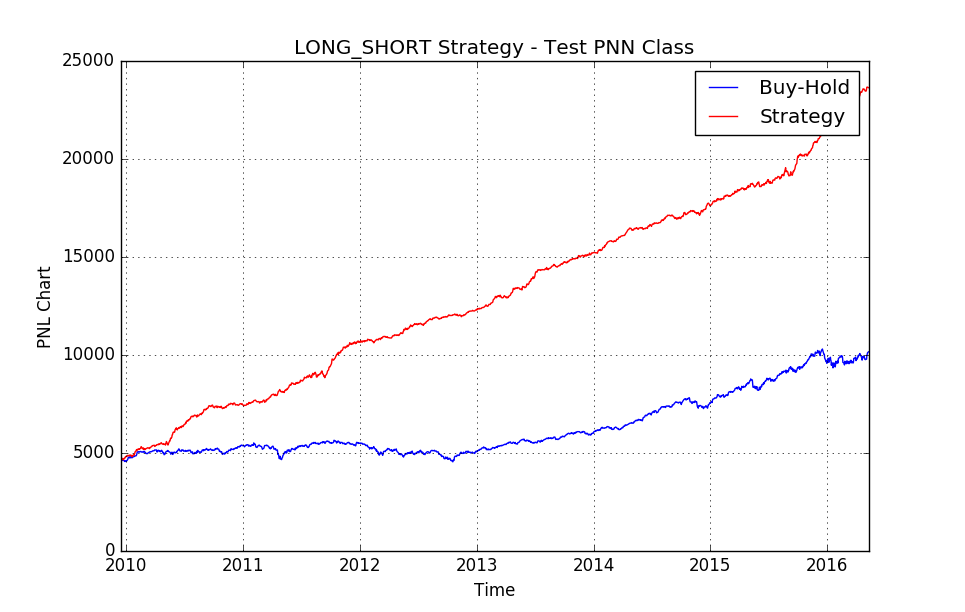
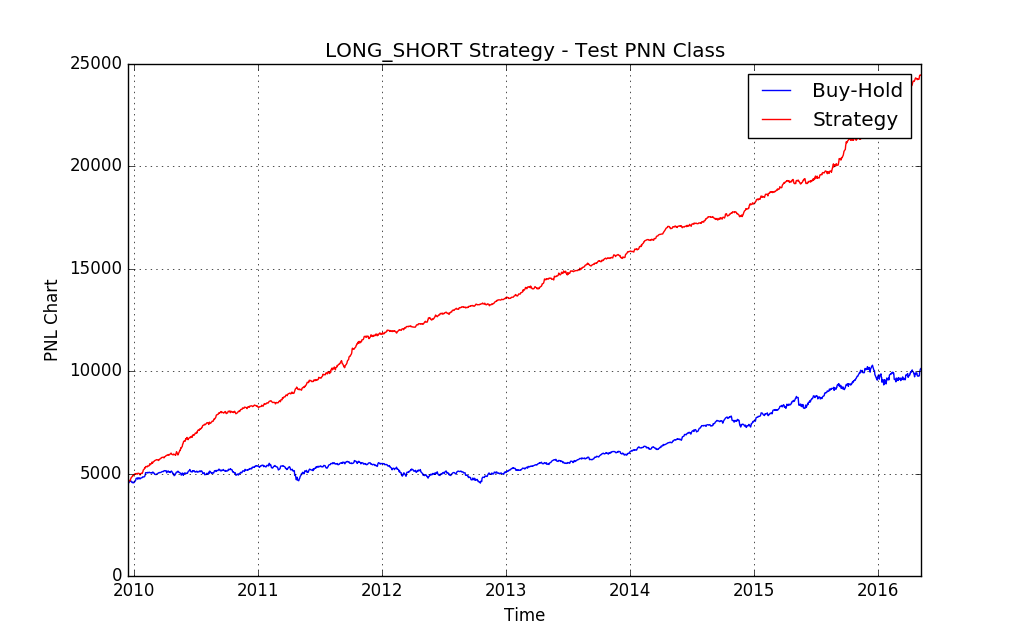
Updates for report v3
Updated GRNN and PNN training

diff --git a/src/main_level.py b/src/main_level.py
@@ -117,6 +117,20 @@ pricesInputs.append(['ASX200_ACCUMULATION_LAST','Indices','ASA51_PX_LAST',lagAsi
 useReturn = 0
 usePrice = 1
 predictorInputs = []
+# predictorInputs.append(['S&P500_DAILY_PX_LAST',useReturn])
+# predictorInputs.append(['STFINL_DAILY_PX_LAST',useReturn])
+# predictorInputs.append(['SHCOMP_DAILY_PX_LAST',useReturn])
+# predictorInputs.append(['ASX200_INDX_GROSS_DAILY_DIV',usePrice])
+# predictorInputs.append(['AUDUSD_CURRENCY',useReturn])
+# predictorInputs.append(['XAU_CURRENCY',useReturn])
+# predictorInputs.append(['CRUDEOIL_COMMODITY',useReturn])
+# predictorInputs.append(['90D_BANKBILL',useReturn])
+# predictorInputs.append(['OIS_1M',useReturn])
+# predictorInputs.append(['OIS_3M',useReturn])
+# predictorInputs.append(['AUD1Y_SWAP',useReturn])
+# predictorInputs.append(['AUD10Y_GOVT',useReturn])
+# predictorInputs.append(['USD10Y_TNOTE',useReturn])
+# predictorInputs.append(['USDJPY_CURRENCY',useReturn])
 predictorInputs.append(['S&P500_DAILY_PX_LAST',useReturn])
 predictorInputs.append(['STFINL_DAILY_PX_LAST',useReturn])
 predictorInputs.append(['SHCOMP_DAILY_PX_LAST',useReturn])
@@ -240,29 +254,30 @@ for idx in range(len(predictorLabels)):
 testInputImportance = 0
 if(testInputImportance):   
     # fit an Extra Trees model to the data
-#     inputSelectionModel = ExtraTreesClassifier(criterion='entropy')
+    inputSelectionModel = ExtraTreesClassifier(criterion='entropy')
     targetScaledClassDir = np.array([math.copysign(1,npArrayTarget[i]) for i in range(len(npArrayTarget))])
-#     inputSelectionModel.fit(predictorInputDataScaled, targetScaledClassDir)
-#     featureImportanceContent = 100*inputSelectionModel.feature_importances_
+    inputSelectionModel.fit(predictorInputDataScaled, targetScaledClassDir)
+    scores = 100*inputSelectionModel.feature_importances_
     
-    rf = ExtraTreesClassifier(criterion='entropy')#RandomForestRegressor(n_estimators=20, max_depth=4)#ExtraTreesClassifier(criterion='entropy')
-    scoresLabels = []
-    scores = []
-    for i in range(predictorInputDataScaled.shape[1]):
-        score = cross_val_score(rf, predictorInputDataScaled[:, i:i+1], targetScaledClassDir, scoring='accuracy',cv=10)
-        scores.append(round(np.mean(score),2))
-        scoresLabels.append((round(np.mean(score), 2),predictorLabels[i]))
-
-    print '\nPredictor Inputs sorted by cross-validated performance (% accuracy)\n'
-    for feature in sorted(scoresLabels,reverse=True):
-        idx = predictorLabels.index(feature[1])
-        print 'Input '+ str(idx+1) +': \tScore: '+ str(feature[0]) +'\tName: '+ feature[1]
+#     rf = ExtraTreesClassifier(criterion='entropy')#RandomForestRegressor(n_estimators=20, max_depth=4)#ExtraTreesClassifier(criterion='entropy')
+#     scoresLabels = []
+#     scores = []
+#     for i in range(predictorInputDataScaled.shape[1]):
+#         score = cross_val_score(rf, predictorInputDataScaled[:, i:i+1], targetScaledClassDir, scoring='accuracy',cv=10)
+#         scores.append(round(np.mean(score),2))
+#         scoresLabels.append((round(np.mean(score), 2),predictorLabels[i]))
+# 
+#     print '\nPredictor Inputs sorted by cross-validated performance (% accuracy)\n'
+#     for feature in sorted(scoresLabels,reverse=True):
+#         idx = predictorLabels.index(feature[1])
+#         print 'Input '+ str(idx+1) +': \tScore: '+ str(feature[0]) +'\tName: '+ feature[1]
     
     # display the relative importance of each attribute
     fig, ax = plt.subplots()
     ax.bar(np.arange(len(predictorLabels)), scores,label=predictorLabels,color='r')
     plt.xlabel('Predictor Labels')
-    plt.ylabel('% accuracy')
+    #plt.ylabel('% accuracy')
+    plt.ylabel('Relative Importance')
     #plt.legend(loc='upper center',bbox_to_anchor=(0.5,-0.05))
     plt.title('Predictor Input cross-validated performance to classify: '+targetLabel +'_DIR')
     # put the major ticks at the middle of each cell
@@ -272,30 +287,30 @@ if(testInputImportance):
     ax.set_xticklabels(range(1,len(predictorLabels)+1))
     plt.show() 
     
-    # fit an Extra Trees model to the data
-#     inputSelectionModel = RandomForestRegressor(n_estimators=20, max_depth=4)
-#     inputSelectionModel.fit(predictorInputDataScaled, npArrayTarget[:,0])
-#     featureImportanceContent = 100*inputSelectionModel.feature_importances_
-#     scores = featureImportanceContent
+    inputSelectionModel = RandomForestRegressor(n_estimators=len(predictorLabels), max_depth=5)
+    inputSelectionModel.fit(predictorInputDataScaled, npArrayTarget[:,0])
+    featureImportanceContent = 100*inputSelectionModel.feature_importances_
+    scores = featureImportanceContent
 
-    rf = RandomForestRegressor(n_estimators=5, max_depth=2)
-    scoresLabels = []
-    scores = []    
-    for i in range(predictorInputDataScaled.shape[1]):
-        score = cross_val_score(rf, predictorInputDataScaled[:, i:i+1], npArrayTarget[:,0], scoring='r2',cv=10)
-        scores.append(round(np.mean(score),2))
-        scoresLabels.append((round(np.mean(score), 2),predictorLabels[i]))
- 
-    print '\nPredictor Inputs sorted by cross-validated performance (R2 score)\n'
-    for feature in sorted(scoresLabels,reverse=True):
-        idx = predictorLabels.index(feature[1])
-        print 'Input '+ str(idx+1) +': \tScore: '+ str(feature[0]) +'\tName: '+ feature[1]
+#     rf = RandomForestRegressor(n_estimators=20, max_depth=6)
+#     scoresLabels = []
+#     scores = []    
+#     for i in range(predictorInputDataScaled.shape[1]):
+#         score = cross_val_score(rf, predictorInputDataScaled, npArrayTarget[:,0], scoring='r2',cv=10)
+#         scores.append(round(np.mean(score),2))
+#         scoresLabels.append((round(np.mean(score), 2),predictorLabels[i]))
+#  
+#     print '\nPredictor Inputs sorted by cross-validated performance (R2 score)\n'
+#     for feature in sorted(scoresLabels,reverse=True):
+#         idx = predictorLabels.index(feature[1])
+#         print 'Input '+ str(idx+1) +': \tScore: '+ str(feature[0]) +'\tName: '+ feature[1]
     
     # display the relative importance of each attribute
     fig, ax = plt.subplots()
     ax.bar(np.arange(len(predictorLabels)), scores,label=predictorLabels,color='r')
     plt.xlabel('Predictor Labels')
-    plt.ylabel('R2 Score')
+    #plt.ylabel('R2 Score')
+    plt.ylabel('Relative Importance')
     #plt.legend(loc='upper center',bbox_to_anchor=(0.5,-0.05))
     plt.title('Predictor Inputs cross-validated performance on: '+targetLabel)
     # put the major ticks at the middle of each cell
@@ -385,11 +400,14 @@ if(runGRNN):
         RMSLE_GRNN = []
         minRMSLE = 1e10
         bestStd = 0
+        splitIdx = int(len(trainRange)/2)
+        trainRangeFold1 = trainRange[:splitIdx]
+        trainRangeFold2 = trainRange[(splitIdx+1):]
         print('GRNN Training Results - Test Std dev input')  
         for x in grnnStd:
             grnnNW = algorithms.GRNN(std=x, verbose=False)
-            grnnNW.train(x_train, y_train)
-            networkRMSLE = estimators.rmsle(y_test[:,0], grnnNW.predict(x_test)[:,0])
+            grnnNW.train(x_train[trainRangeFold1,:], y_train[trainRangeFold1,:])
+            networkRMSLE = estimators.rmsle(y_train[trainRangeFold2,:], grnnNW.predict(x_train[trainRangeFold2,:])[:,0])
             
             if(minRMSLE > networkRMSLE):
                 minRMSLE = networkRMSLE
@@ -400,9 +418,9 @@ if(runGRNN):
         plt.figure
         p1, = plt.plot(grnnStd, RMSLE_GRNN,'b')
         plt.xlabel('GRNN Std.')
-        plt.ylabel('Test RMSLE')
+        plt.ylabel('Train RMSLE')
         plt.grid(True)       
-        plt.title('Test RMSLE to determine GRNN Std. Input')
+        plt.title('Train RMSLE to determine GRNN Std. Input')
         plt.show() 
     
         grnnNW = algorithms.GRNN(std=bestStd, verbose=True)
@@ -436,7 +454,7 @@ if(runGRNN):
         strategyPNL[-1], accumulationPNL[-1]
     ))  
         
-runOLS = 1
+runOLS = 0
 if(runOLS):
     OLS_ObjName = 'OLS_LevelPredictor'
     trainOLS = 0

diff --git a/src/utilities.py b/src/utilities.py
@@ -186,4 +186,87 @@ def predictorResultsSummary(binCount,histTitle,plotTitle,targetLabel,dates,y_tar
     print("Guessed {} out of {} = {}% correct".format(
         np.sum(targetDirection == estTargetDirection), targetDirection.size, 100*np.sum(targetDirection == estTargetDirection)/targetDirection.size
     ))     
-  
+
+def performTimeSeriesCV(X_train, y_train, number_folds, algorithm, parameters):
+    """
+    Given X_train and y_train (the test set is excluded from the Cross Validation),
+    number of folds, the ML algorithm to implement and the parameters to test,
+    the function acts based on the following logic: it splits X_train and y_train in a
+    number of folds equal to number_folds. Then train on one fold and tests accuracy
+    on the consecutive as follows:
+    - Train on fold 1, test on 2
+    - Train on fold 1-2, test on 3
+    - Train on fold 1-2-3, test on 4
+    ....
+    Returns mean of test accuracies.
+    """
+
+    print 'Parameters --------------------------------> ', parameters
+    print 'Size train set: ', X_train.shape
+    
+    # k is the size of each fold. It is computed dividing the number of 
+    # rows in X_train by number_folds. This number is floored and coerced to int
+    k = int(np.floor(float(X_train.shape[0]) / number_folds))
+    print 'Size of each fold: ', k
+    
+    # initialize to zero the accuracies array. It is important to stress that
+    # in the CV of Time Series if I have n folds I test n-1 folds as the first
+    # one is always needed to train
+    accuracies = np.zeros(number_folds-1)
+
+    # loop from the first 2 folds to the total number of folds    
+    for i in range(2, number_folds + 1):
+        print ''
+        
+        # the split is the percentage at which to split the folds into train
+        # and test. For example when i = 2 we are taking the first 2 folds out 
+        # of the total available. In this specific case we have to split the
+        # two of them in half (train on the first, test on the second), 
+        # so split = 1/2 = 0.5 = 50%. When i = 3 we are taking the first 3 folds 
+        # out of the total available, meaning that we have to split the three of them
+        # in two at split = 2/3 = 0.66 = 66% (train on the first 2 and test on the
+        # following)
+        split = float(i-1)/i
+        
+        # example with i = 4 (first 4 folds):
+        #      Splitting the first       4        chunks at          3      /        4
+        print 'Splitting the first ' + str(i) + ' chunks at ' + str(i-1) + '/' + str(i) 
+        
+        # as we loop over the folds X and y are updated and increase in size.
+        # This is the data that is going to be split and it increases in size 
+        # in the loop as we account for more folds. If k = 300, with i starting from 2
+        # the result is the following in the loop
+        # i = 2
+        # X = X_train[:(600)]
+        # y = y_train[:(600)]
+        #
+        # i = 3
+        # X = X_train[:(900)]
+        # y = y_train[:(900)]
+        # .... 
+        X = X_train[:(k*i)]
+        y = y_train[:(k*i)]
+        print 'Size of train + test: ', X.shape # the size of the dataframe is going to be k*i
+
+        # X and y contain both the folds to train and the fold to test.
+        # index is the integer telling us where to split, according to the
+        # split percentage we have set above
+        index = int(np.floor(X.shape[0] * split))
+        
+        # folds used to train the model        
+        X_trainFolds = X[:index]        
+        y_trainFolds = y[:index]
+        
+        # fold used to test the model
+        X_testFolds = X[(index + 1):]
+        y_testFolds = y[(index + 1):]
+        
+        # i starts from 2 so the zeroth element in accuracies array is i-2. performClassification() is a function which takes care of a classification problem. This is only an example and you can replace this function with whatever ML approach you need.
+        #accuracies[i-2] = performClassification(X_trainFolds, y_trainFolds, X_testFolds, y_testFolds, algorithm, parameters)
+        
+        # example with i = 4:
+        #      Accuracy on fold         4     :    0.85423
+        print 'Accuracy on fold ' + str(i) + ': ', accuracies[i-2]
+    
+    # the function returns the mean of the accuracy on the n-1 folds    
+    return accuracies.mean()

diff --git a/src/main_direction.py b/src/main_direction.py
@@ -267,7 +267,7 @@ if(checkInputScaling):
 
 #hiddenNeurons = [5,10,15,20,25,30,40,50,60]
 trainNetwork = 0
-hiddenNeurons = 29
+hiddenNeurons = 27
 Feedforward_MLP_NetworkName = 'Feedforward_MLP_ext'+ targetChoice +'_'+ classifyDirection                   
  
 if(trainNetwork):
@@ -321,34 +321,61 @@ print(Feedforward_MLP_NetworkName+": Strategy PNL = {}, Buy-Hold PNL = {}".forma
     strategyPNL[-1], accumulationPNL[-1]
 )) 
     
-#pnnStd = np.linspace(0.01, 3, 200)
-pnnStd = [1.25]
+pnnStd = np.linspace(0.1, 2.5, 75) 
+#pnnStd = [2]
 PNN_NetworkName = 'PNN_Network'                      
+trainNetwork = 1
+if(trainNetwork):  
+    RMSLE_PNN = []
+    minRMSLE = 1e10
+    bestStd = 0
+    splitIdx = int(len(trainRange)/2)
+    trainRangeFold1 = trainRange[:splitIdx]
+    trainRangeFold2 = trainRange[(splitIdx+1):]
+    print('PNN Training Results - Train Std dev input')  
+    for x in pnnStd:
+        nw = algorithms.PNN(std=x, verbose=False)
+        nw.train(x_trainPNN[trainRangeFold1,:], y_trainPNN[trainRangeFold1,:])
+        networkRMSLE = estimators.rmsle(y_trainPNN[trainRangeFold2,:], nw.predict(x_trainPNN[trainRangeFold2,:]))
+                   
+        if(minRMSLE > networkRMSLE):
+            minRMSLE = networkRMSLE
+            bestStd = x
+            
+        RMSLE_PNN.append(networkRMSLE)
 
-print('PNN Classification Results - Test Std dev input')  
-for x in pnnStd:
-    nw = algorithms.PNN(std=x, verbose=True)
-    nw.train(x_trainPNN, y_trainPNN)
-   
+    plt.figure
+    p1, = plt.plot(pnnStd, RMSLE_PNN,'b')
+    plt.xlabel('PNN Std.')
+    plt.ylabel('Train RMSLE')
+    plt.grid(True)       
+    plt.title('Train RMSLE to determine PNN Std. Input')
+    plt.show() 
+
+    nw = algorithms.PNN(std=bestStd, verbose=True)
+    nw.train(x_trainPNN, y_trainPNN)       
+    getData.save_network(nw,PNN_NetworkName)  
+                       
     y_predict = nw.predict(x_trainPNN)
     targetDirection = np.transpose(target_scalerPNN.inverse_transform(y_trainPNN))
     estTargetDirection = target_scalerPNN.inverse_transform(y_predict)
     
     print('Train PNN Est - Classification Results')                                                                     
-    print(PNN_NetworkName+": Std dev {}: Guessed {} out of {} = {}% correct".format(
-        x, np.sum(targetDirection == estTargetDirection), targetDirection.size, 100*np.sum(targetDirection == estTargetDirection)/targetDirection.size
+    print(PNN_NetworkName+": Guessed {} out of {} = {}% correct".format(
+        np.sum(targetDirection == estTargetDirection), targetDirection.size, 100*np.sum(targetDirection == estTargetDirection)/targetDirection.size
     )) 
-    
+else:
+    nw = getData.load_network(PNN_NetworkName)  
+              
 nw.plot_errors()          
-getData.save_network(nw,PNN_NetworkName)
 
 y_predict = nw.predict(x_testPNN)
 targetDirection = np.transpose(target_scalerPNN.inverse_transform(y_testPNN))
 estTargetDirection = target_scalerPNN.inverse_transform(y_predict)
 
 print('Test PNN Est - Classification Results')                                                                     
-print(PNN_NetworkName+": Std dev {}: Guessed {} out of {} = {}% correct".format(
-    x, np.sum(targetDirection == estTargetDirection), targetDirection.size, 100*np.sum(targetDirection == estTargetDirection)/targetDirection.size
+print(PNN_NetworkName+": Guessed {} out of {} = {}% correct".format(
+    np.sum(targetDirection == estTargetDirection), targetDirection.size, 100*np.sum(targetDirection == estTargetDirection)/targetDirection.size
 ))
 
 strategyPNL,buyHoldPNL,accumulationPNL = util.getIntraDayPNL(accumulationClosePrices,y_predict,[npArrayTargetOpenPrices[i] for i in testRange],[npArrayTargetPrices[i] for i in testRange],dailyInterestRate,testStrategy)
